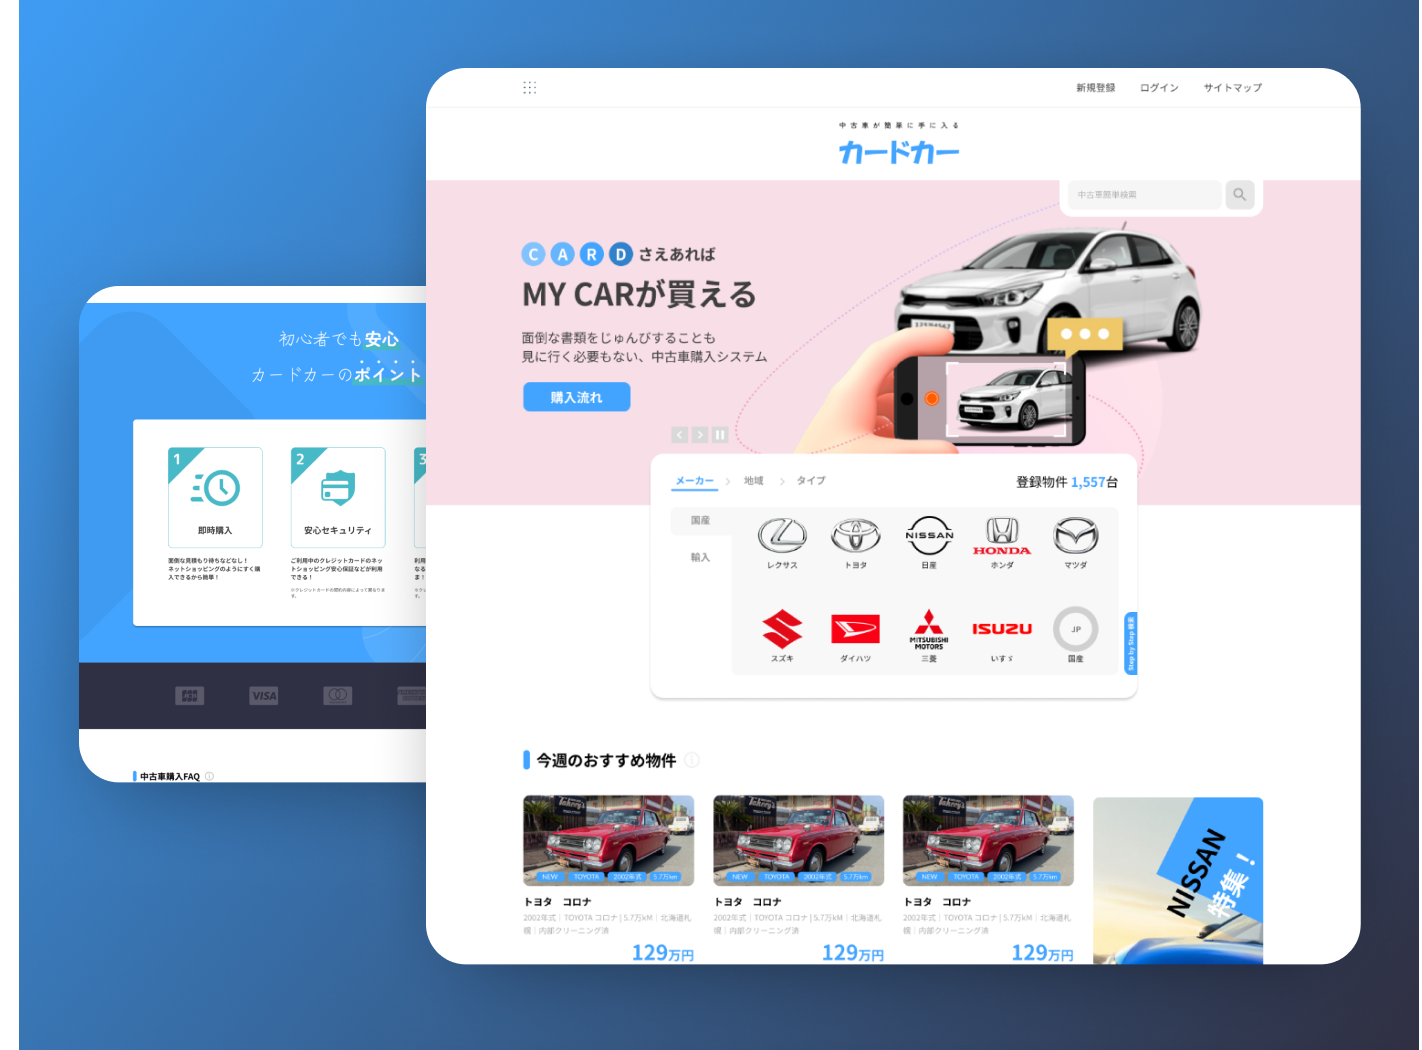
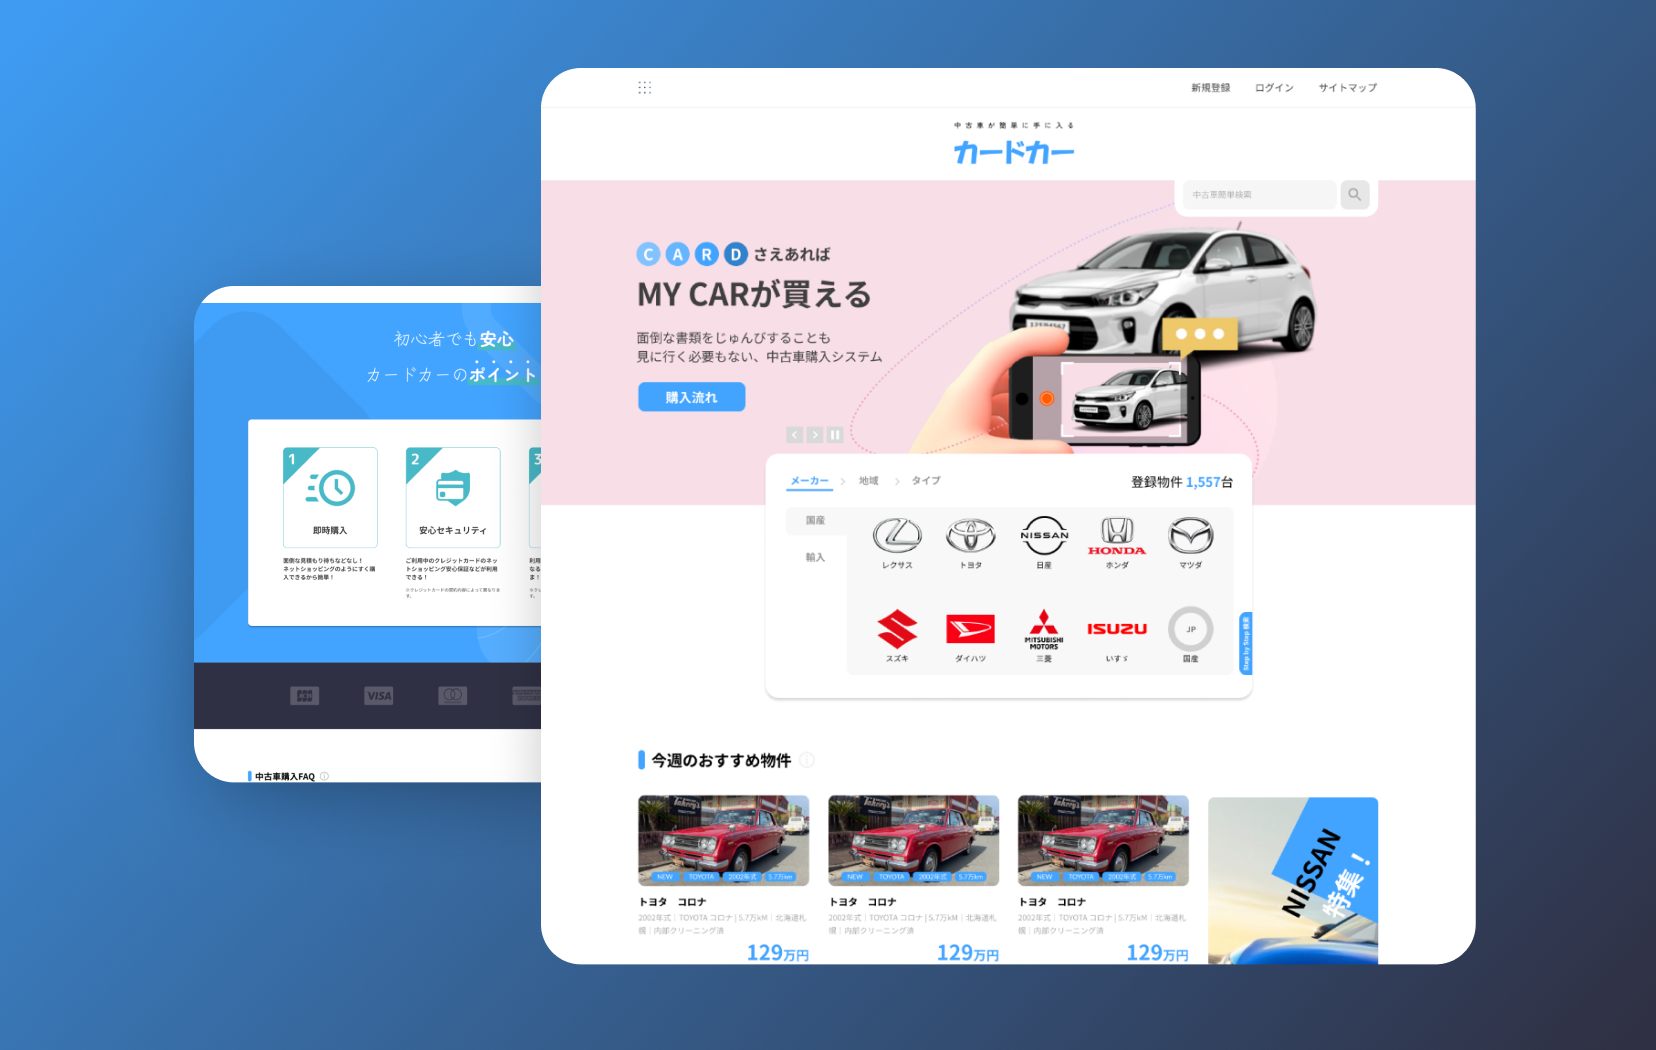
work postリストのデザイン修正

diff --git a/src/components/ui/post-card.tsx b/src/components/ui/post-card.tsx
@@ -26,12 +26,12 @@ export default function PostCard({
     <>
       <li key={work.url} className={wrapperClass + wrapperClass2}>
         {showAccBlock && (
-          <div className="flex aspect-square w-0 items-center justify-center rounded-lg bg-secondary md:w-full">
+          <div className="hidden aspect-[7/5] w-0 items-center justify-center rounded-lg bg-secondary md:flex md:w-full">
             <Logo />
           </div>
         )}
         <Link href={work.url}>
-          <div className="group relative aspect-square overflow-hidden rounded-lg">
+          <div className="group relative aspect-[7/5] overflow-hidden rounded-lg">
             <Image
               src={work.image}
               width={isBig ? 800 : 400}
@@ -39,11 +39,11 @@ export default function PostCard({
               alt={work.title}
               className="h-full w-full transform object-cover object-center transition duration-500 ease-in-out group-hover:scale-105 group-hover:drop-shadow-xl group-focus:scale-105 group-active:scale-105"
             />
-            <div className="absolute  inset-0 z-50 flex items-end bg-gradient-to-t from-gray-900/50 to-gray-900/30 transition-all group-hover:to-gray-900/10">
+            <div className="absolute inset-0 z-50 flex items-end bg-gradient-to-t from-gray-900/70 to-gray-900/50 transition-all group-hover:to-gray-900/10">
               <div className="bg-transparent px-4 pb-4 text-white">
                 <p>{work.readingTime.text}</p>
-                <h3 className="my-2 text-2xl lg:text-3xl">{work.title}</h3>
-                <p className="text-bold sm:hidden lg:block">
+                <h3 className="my-2 text-2xl font-semibold">{work.title}</h3>
+                <p className="sm:hidden lg:block">
                   {textSplitter(work.description, 35)[1].length > 0
                     ? textSplitter(work.description, 35)[0] + "..."
                     : textSplitter(work.description, 35)[0]}

diff --git a/src/app/(resume)/works/page.tsx b/src/app/(resume)/works/page.tsx
@@ -85,7 +85,7 @@ export default function WorksPage() {
           </AccordionItem>
         </Accordion>
       </ul>
-      <ul className="grid grid-cols-6 gap-x-8 gap-y-12">
+      <ul className="grid grid-cols-6 gap-8">
         {filteredWorks.map((work: Work, i) => (
           <PostCard
             key={work._id}
